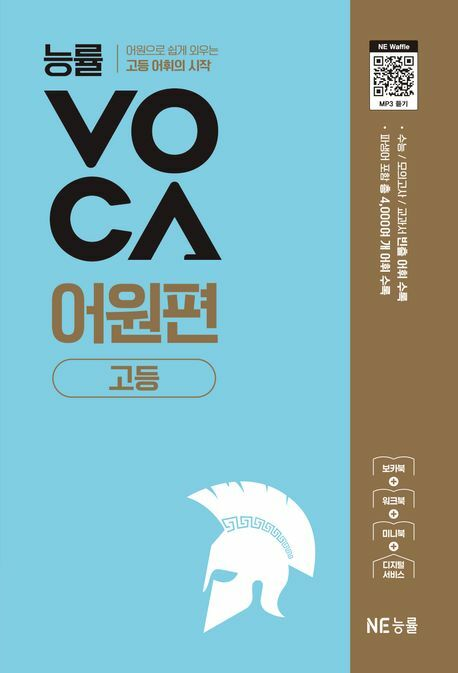
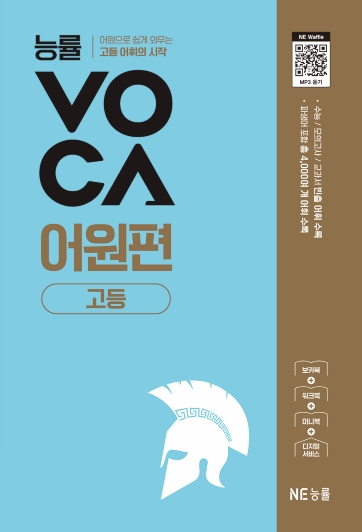
표지 교체: 어원편고등·수능필수 고화질

diff --git a/index.html b/index.html
@@ -8,7 +8,7 @@
   // 저장된 화면 모드를 먼저 적용해 깜빡임 방지
   try { var t = localStorage.getItem('wordTest.theme'); if (t === 'light' || t === 'dark') document.documentElement.setAttribute('data-theme', t); } catch (e) {}
 </script>
-<link rel="stylesheet" href="style.css?v=20261119h">
+<link rel="stylesheet" href="style.css?v=20261119i">
 </head>
 <body>
 <div class="layout">
@@ -221,7 +221,7 @@
   <option value="중1"><option value="중2"><option value="중3"><option value="고1"><option value="고2"><option value="고3">
 </datalist>
 
-<script src="app.js?v=20261119h"></script>
+<script src="app.js?v=20261119i"></script>
 <div id="sheetPrint" class="sheet-print"></div>
 </body>
 </html>
